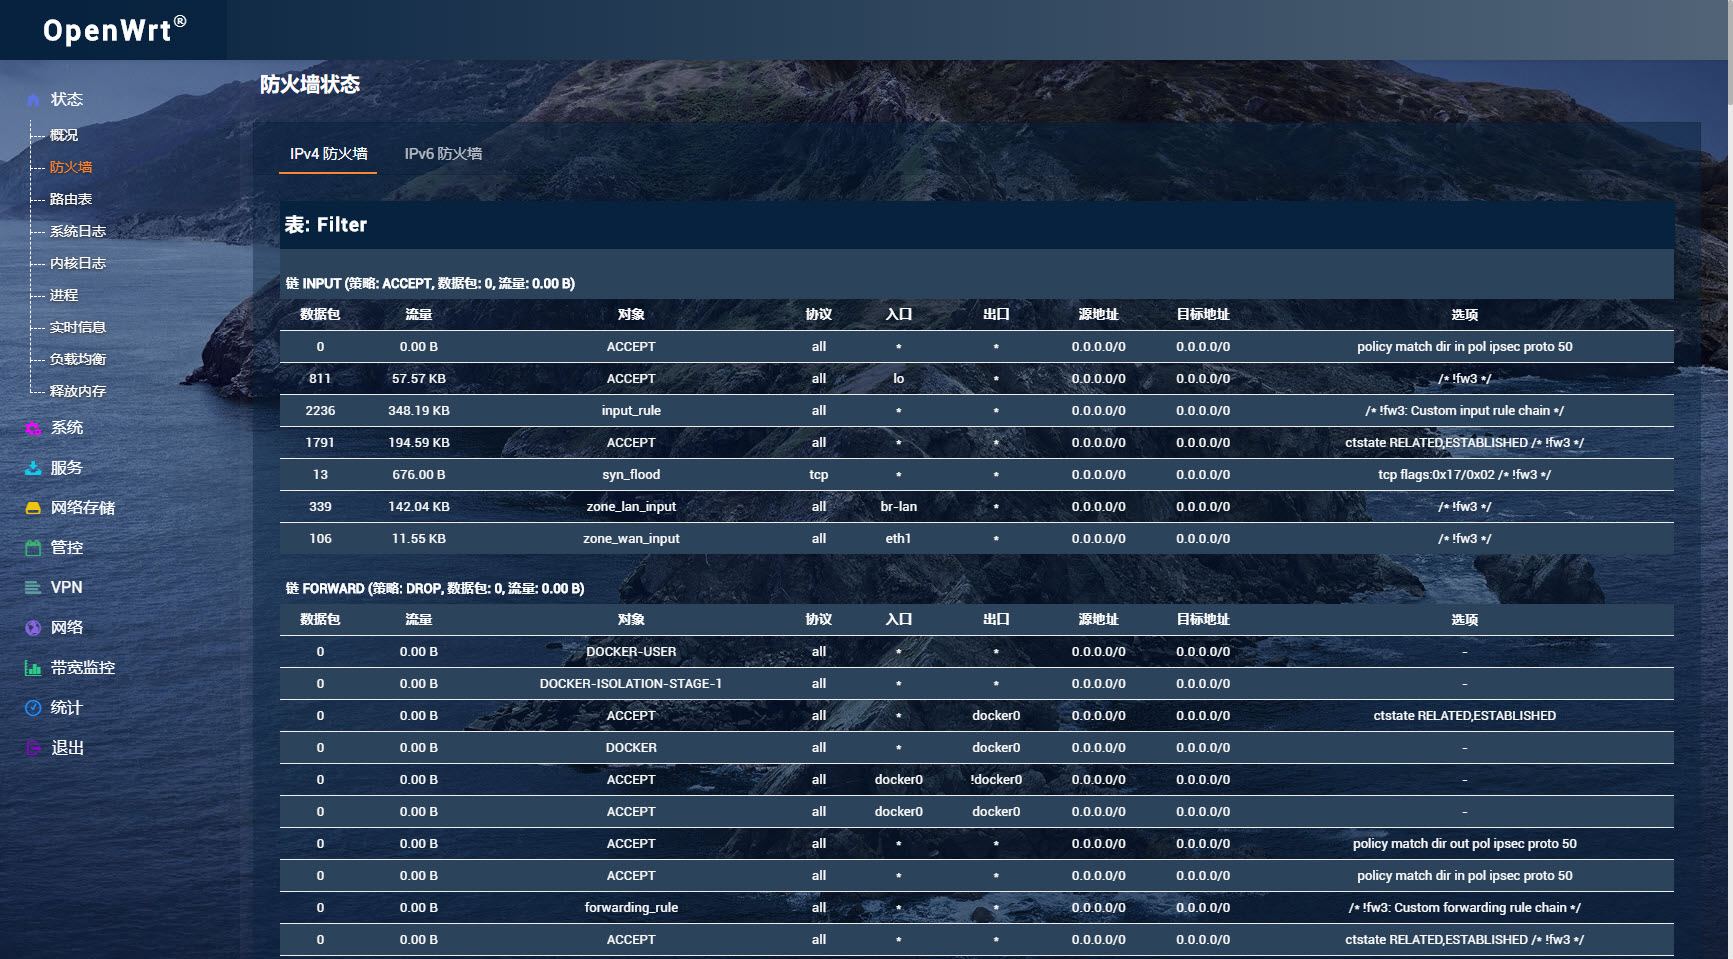
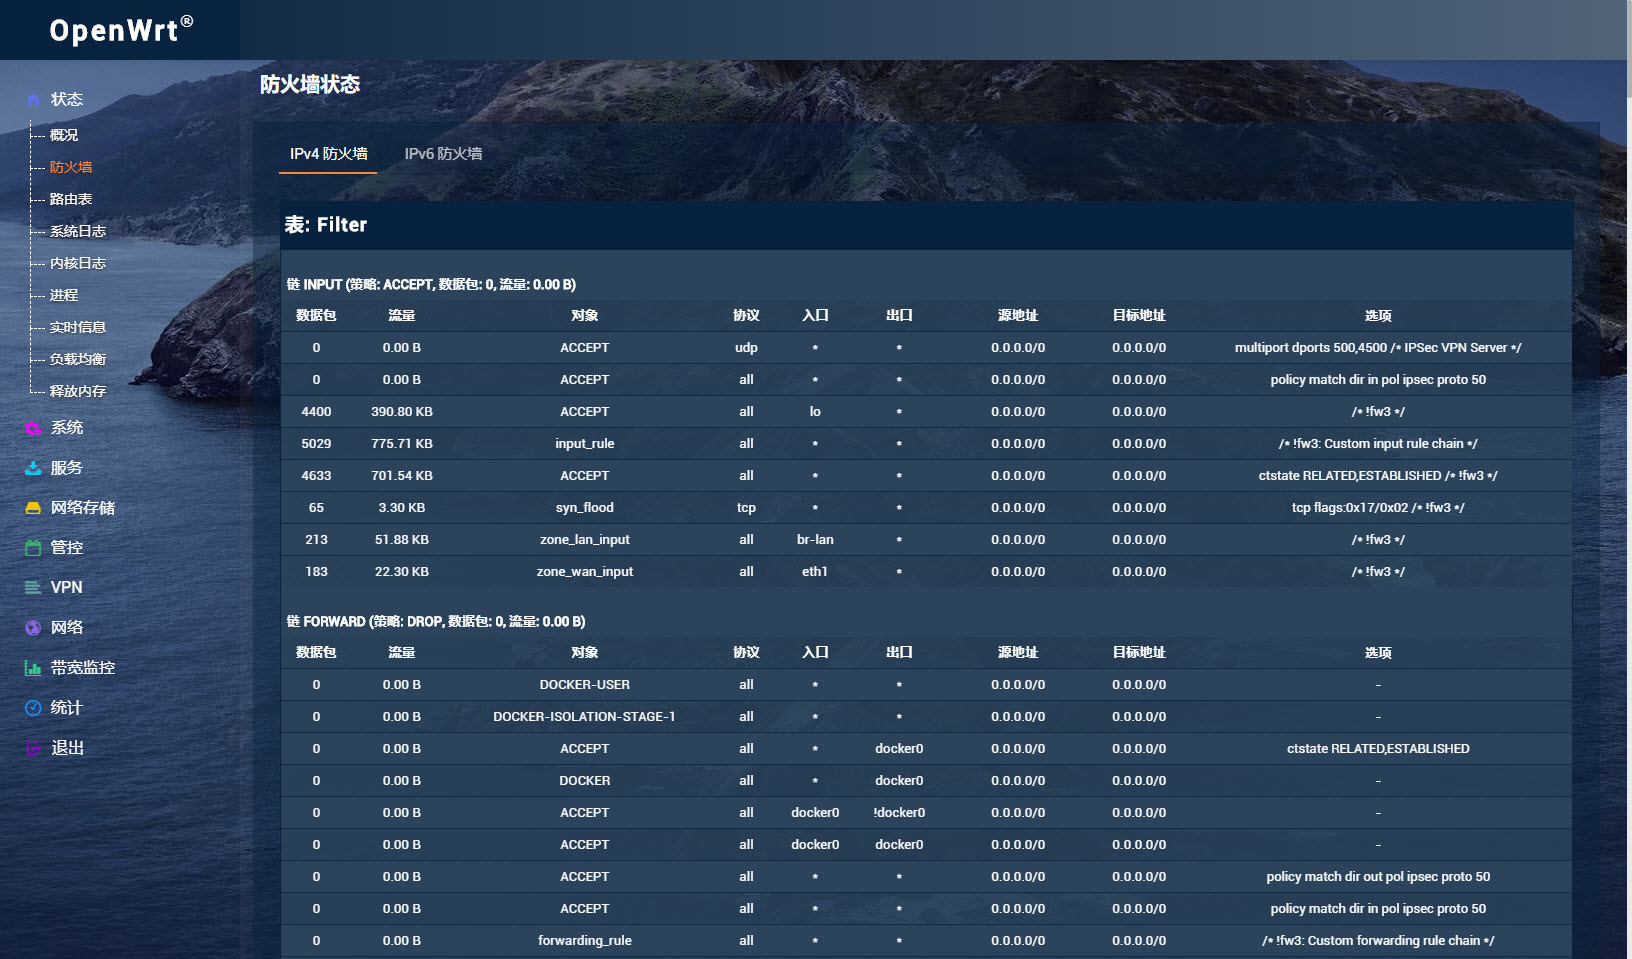
update to 1.1

diff --git a/luci-theme-infinityfreedom/files/htdocs/css/style.css b/luci-theme-infinityfreedom/files/htdocs/css/style.css
@@ -138,7 +138,7 @@ html, body {
     font-family: Roboto,'Hiragino Sans GB W6','Microsoft Yahei' !important;
     font-size:10pt;
     line-height: 150%;
-    color:##f8f9fe;
+    color:#ffffff;
     /*min-width: 960px;*/
 	background: url('../images/main_bg.jpg');
 	background-repeat:no-repeat;
@@ -181,7 +181,7 @@ input,
     height: 34px;
     line-height: normal;
     font-size: 1.2rem;
-    font-family: 'Courier New', 'Hiragino Sans GB W6','Microsoft Yahei', sans-serif;
+    font-family : 'Consolas','Courier New', 'Hiragino Sans GB W6','Microsoft Yahei', sans-serif;
     background-color: rgba(7,34,62,.4);
     transition: color 150ms ease, border-color 150ms ease, opacity 150ms ease;
     -webkit-transition: color 150ms ease, border-color 150ms ease, opacity 150ms ease;
@@ -385,7 +385,7 @@ header > .container > .brand {
     cursor: default;
 	background-color: rgba(7,34,62,.8);
     display:block;
-    width:17rem;
+    width:18rem;
     padding-right: 10px;
     height:60px;
     text-align:center;
@@ -845,19 +845,17 @@ table,
     border-spacing: 0;
     border-collapse: collapse;
     width: 100%;
-    /*border: 1px solid #eee;*/
-	/* TODO */
-	border-bottom: 1px solid #eee;
+    border: 1px solid #07223e;
 }
 
 table > tbody > tr > td, table > tbody > tr > th, table > tfoot > tr > td, table > tfoot > tr > th, table > thead > tr > td, table > thead > tr > th,
 .table > .tbody > .tr > .td, .table > .tbody > .tr > .th, .table > .tfoot > .tr > .td, .table > .tfoot > .tr > .th, .table > .thead > .tr > .td, .table > .thead > .tr > .th {
 font-size: 1rem;
 	white-space: nowrap;
-	color: #ffffff;/*#525f7f;*/
+	color: #ffffff;
 	padding: 6px;
 	line-height: 1.5;
-	border-top: 1px solid #eee;
+	border-top: 1px solid rgb(7, 34, 62,.75);
 	white-space: nowrap;
 }
 
@@ -873,12 +871,12 @@ fieldset > table > tbody > tr:nth-of-type(odd),
 fieldset > .table > .tbody > .tr:nth-of-type(odd) {
     background-color: #2c435b;
 }
-/*
-fieldset > table > tr:nth-of-type(odd),
-fieldset > .table > .tr:nth-of-type(odd) {
-    background-color: #f9f9f9;
+
+fieldset > table > tbody > tr:nth-of-type(even),
+fieldset > .table > .tbody > .tr:nth-of-type(even) {
+    background-color: rgb(44, 67, 91,.85);
 }
-*/
+
 /* fix progress bar */
 #swaptotal > div,
 #swapfree > div,
@@ -957,10 +955,19 @@ td > table > tbody > tr > td,
     -webkit-appearance: none;
 }
 
+.cbi-button-link {
+	border: 1px solid #81c784;
+	color:#81c784;
+}
+.cbi-button-link:hover{
+	background-color:#81c784;
+	color:#ffffff;
+}
+
 .cbi-button:hover,
 .cbi-button:focus,
 .cbi-button:active {
-    color: #ff8534;
+    /*color: #ff8534;*/
     outline: 0;
     text-decoration: none;
 }
@@ -1164,7 +1171,7 @@ form.inline + form.inline,
 
 .cbi-value-description {
     font-size: small;
-    opacity: 0.6;
+    opacity: 0.7;
     padding: 0.5rem 0 0 0;
 }
 
@@ -1184,12 +1191,20 @@ form.inline + form.inline,
     vertical-align: middle;
     display: inline-block;
     width: 100%;
-    /*border-top:1px dashed #e4eaec;*/
 }
 
 .cbi-section-table-descr > .cbi-section-table-cell,
 .cbi-section-table-titles > .cbi-section-table-cell {
     border: none;
+}
+
+.cbi-rowstyle-1 {
+    background-color: transparent;
+}
+
+.cbi-rowstyle-1 .cbi-button-up,
+.cbi-rowstyle-1 .cbi-button-down{
+    background-color: #9876AA!important;
 }
 
 .cbi-rowstyle-2 {
@@ -1198,7 +1213,7 @@ form.inline + form.inline,
 
 .cbi-rowstyle-2 .cbi-button-up,
 .cbi-rowstyle-2 .cbi-button-down{
-    background-color: #843484 !important;
+    background-color: #9876AA!important;
 }
 
 .cbi-section-table .cbi-section-table-titles .cbi-section-table-cell {
@@ -1426,7 +1441,8 @@ form.inline + form.inline,
     border-bottom: 1px solid #ff8534;
     padding: 0.5rem 1rem;
     box-shadow: inset 0 1px 0 rgba(255, 255, 255, 0.2), 0 1px 2px rgba(0, 0, 0, 0.05);
-    background: #fff;
+	border: 1px solid #07223e;
+	background-color: rgba(7,34,62,.5);
 }
 
 td > .ifacebadge,
@@ -1483,16 +1499,15 @@ td > .ifacebadge,
 /*textarea*/
 
 .cbi-input-textarea {
-    color: #76838f;
+    color: #9876AA;
     padding: 6px 10px;
     margin: 0;
-    line-height: normal;
-    font-size: 10pt;
-    font-family : 'Courier New', 'Hiragino Sans GB W6','Microsoft Yahei';
+    line-height: 120%;
+    font-size: 1.2rem;
+    font-family : 'Consolas','Courier New', 'Hiragino Sans GB W6','Microsoft Yahei';
     border: 1px solid #e4eaec;
-    color: #ffffff;
     border-radius: 0;
-    background-color: rgba(7,34,62,.5);
+    background-color: #2B2B2B;/*rgba(7,34,62,.5)*/;
     transition: color 150ms ease, border-color 150ms ease, opacity 150ms ease;
     -webkit-transition: color 150ms ease, border-color 150ms ease, opacity 150ms ease;
     outline-style: none;
@@ -1507,14 +1522,15 @@ td > .ifacebadge,
     width: 100%;
     min-height: 15rem;
     padding: 1rem;
-    font-size: small;
-    color: #ffffff;
+    font-size: 1.2rem;
+	line-height:120%;
+    color: #A9B7C6;
     margin-bottom: 20px;
     border-radius: 0;
-    background-color: rgba(7,34,62,.5);
+    background-color: rgba(7,34,62,.75);/*rgba(53,53,53,.9)*/
     box-shadow: 0 2px 2px 0 rgba(0, 0, 0, .16), 0 0 2px 0 rgba(0, 0, 0, .12);
     border: none;
-	font-family : 'Courier New', 'Hiragino Sans GB W6','Microsoft Yahei';
+	font-family : 'Consolas','Courier New', 'Hiragino Sans GB W6','Microsoft Yahei';
 	/* For FireFox */
 	scrollbar-color: rgba(50,50,50,.3) rgba(50,50,50,.1);
 	scrollbar-width: thin;
@@ -1606,8 +1622,8 @@ td > .ifacebadge,
 }
 
 .ifacebox {
-    border: 1px solid #e4eaec;
-    background-color: #f9f9f9;
+    border: 1px solid #07223e;
+	background-color: rgba(7,34,62,.5);
     display: inline-flex;
     flex-direction: column;
     line-height: 1.2em;
@@ -1699,7 +1715,7 @@ td > .ifacebadge,
 
 div.cbi-value var, td.cbi-value-field var, .td.cbi-value-field var {
     font-style: italic;
-    color: #0069D6;
+    color: #FFC66D;
 }
 
 small {
@@ -2322,4 +2338,15 @@ body.lang_pl.node-main-login .cbi-value-title {
     .cbi-value-field .cbi-dropdown {
         min-width: 25rem;
     }
+}
+
+@media screen and (min-width: 2561px), screen and (min-height:1441px) {
+    html, body {
+		font-size:12pt;
+		line-height: 200%;
+		background: url('../images/main_bg_5k.jpg');
+		background-repeat:no-repeat;
+		background-attachment:fixed;
+		background-position:center;
+	}
 }
